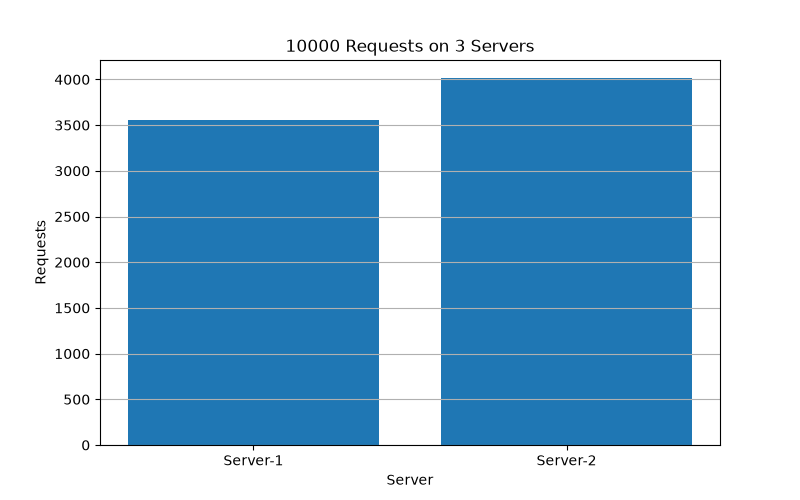
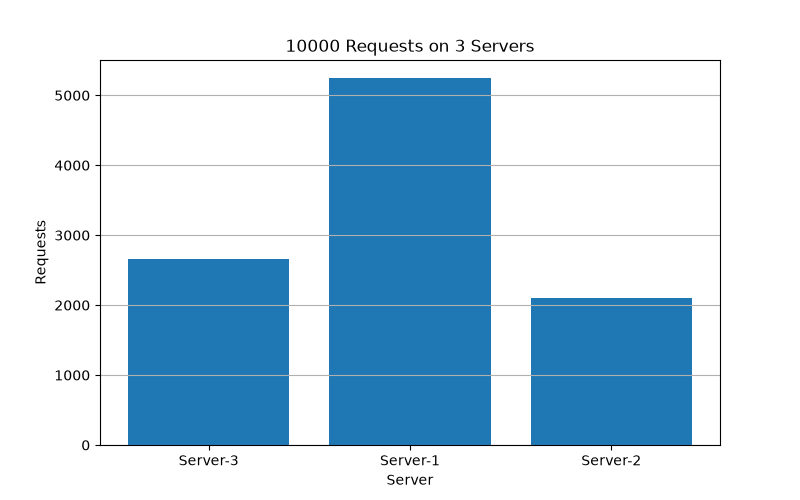
Added information

diff --git a/analysis/experiment1.py b/analysis/experiment1.py
@@ -3,6 +3,8 @@ import aiohttp
 import json
 from collections import Counter
 
+from yarl import URL
+
 BASE_URL = "http://localhost:5000/home"
 
 TOTAL_REQUESTS = 10000
@@ -13,7 +15,7 @@ counter = Counter()
 async def fetch(session, request_id):
     try:
         async with session.get(
-            URL,
+            BASE_URL,
             params={"id": request_id}
         ) as response:
 